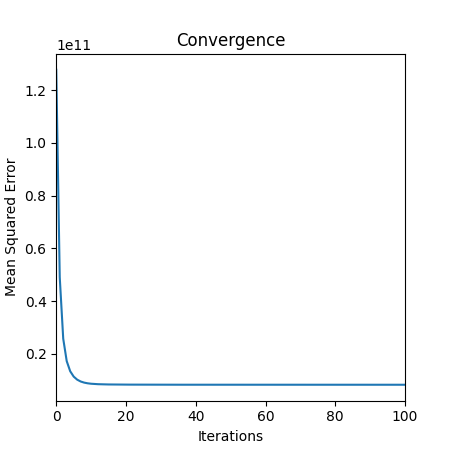
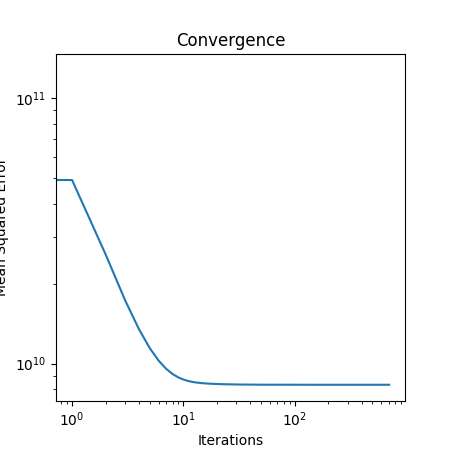
updated variable names for better understanding and fixed graph

diff --git a/data-science/HW03_Taylor_Ryan/linreg_gd.py b/data-science/HW03_Taylor_Ryan/linreg_gd.py
@@ -40,21 +40,20 @@ errors = np.zeros(max_steps)
 
 for i in range(max_steps):
     # Compute the gradient
-    # predictions for each value based on B
-    Yhat = Xp @ B
-    gradient = Xp.T @ (Yhat - Y)
+    residuals_inv = Xp @ B - Y
+    gradient = Xp.T @ residuals_inv
 
     # Compute a new B (use `t`)
     B = B - t * gradient
 
     # Figure out the average squared error using the new B
-    Yhat = Xp @ B
+    prediction = Xp @ B
 
     # Store it in `errors`
-    errors[i] = np.mean((Yhat - Y) ** 2)
+    errors[i] = np.mean((prediction - Y) ** 2)
 
     # Check to see if we have converged
-    if np.linalg.norm(gradient) < 10**-3:
+    if np.linalg.norm(gradient) < 10**-2:
         break
 
 print(f"Took {i} iterations to converge")
@@ -71,12 +70,11 @@ R2 = util.score(B, X, Y)
 print(f"R2 = {R2:f}")
 
 # Draw a graph
-fig1 = plt.figure(1, (4.5, 4.5))
-plt.title("Convergence")
-plt.xlabel("Iterations")
-plt.ylabel("Mean Squared Error")
-
-plt.xlim(0, 100)
-plt.plot(errors[:i])
-# plt.show()
-fig1.savefig("err.png")
+fig, ax = plt.subplots(figsize=(4.5, 4.5))
+ax.set_title("Convergence")
+ax.set_xlabel("Iterations")
+ax.set_ylabel("Mean Squared Error")
+ax.set_yscale("log")
+ax.set_xscale("log")
+ax.plot(errors[:i])
+plt.savefig("err.png")
